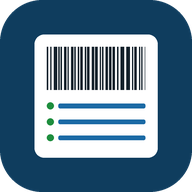
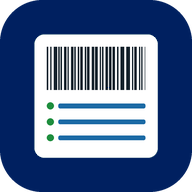
Add files via upload
ver2 logo and user list dropdown

diff --git a/index.html b/index.html
@@ -3,7 +3,7 @@
 <head>
 <meta charset="utf-8">
 <meta name="viewport" content="width=device-width, initial-scale=1, viewport-fit=cover">
-<meta name="theme-color" content="#0f3d5e">
+<meta name="theme-color" content="#ffffff">
 <meta name="mobile-web-app-capable" content="yes">
 <meta name="apple-mobile-web-app-capable" content="yes">
 <title>Scan List Keeper</title>
@@ -13,21 +13,22 @@
 <style>
 :root{
   --bg:#eef2f6; --card:#ffffff; --ink:#14212b; --muted:#5d6b78; --line:#d5dde5;
-  --brand:#0f3d5e; --brand2:#1b6aa5; --ok:#1e8e3e; --okbg:#e3f4e8; --warn:#b26a00; --warnbg:#fff3dc;
+  --brand:#002060; --brand2:#002060; --navy:#002060; --ok:#1e8e3e; --okbg:#e3f4e8; --warn:#b26a00; --warnbg:#fff3dc;
   --bad:#c62828; --badbg:#fde7e7; --chip:#e8eef4;
 }
 @media (prefers-color-scheme: dark){
   :root{ --bg:#0e1419; --card:#18212a; --ink:#e6edf3; --muted:#93a3b2; --line:#2a3642;
-    --brand:#7cc0f0; --brand2:#5aa8e0; --okbg:#173622; --warnbg:#3a2c10; --badbg:#3d1717; --chip:#22303c; }
+    --brand:#8fb3ff; --brand2:#2f5bb7; --okbg:#173622; --warnbg:#3a2c10; --badbg:#3d1717; --chip:#22303c; }
 }
 *{box-sizing:border-box}
 html,body{margin:0;background:var(--bg);color:var(--ink);font:16px/1.4 system-ui,-apple-system,"Segoe UI",Roboto,sans-serif;-webkit-tap-highlight-color:transparent}
 button,input,textarea,select{font:inherit;color:inherit}
-header.top{position:sticky;top:0;z-index:5;background:#0f3d5e;color:#fff;display:flex;align-items:center;gap:12px;padding:10px 16px;padding-top:max(10px,env(safe-area-inset-top))}
-header.top h1{font-size:19px;margin:0;flex:1;white-space:nowrap;overflow:hidden;text-overflow:ellipsis}
-.iconbtn{background:rgba(255,255,255,.12);border:0;color:#fff;border-radius:10px;min-width:44px;height:44px;padding:0 12px;font-size:16px;cursor:pointer}
-.iconbtn:active{background:rgba(255,255,255,.25)}
-.sync{font-size:13px;padding:5px 10px;border-radius:999px;background:rgba(255,255,255,.15);white-space:nowrap;cursor:pointer;border:0;color:#fff}
+header.top{position:sticky;top:0;z-index:5;background:#fff;color:#002060;border-bottom:4px solid #002060;box-shadow:0 2px 6px rgba(0,0,0,.08);display:flex;align-items:center;gap:12px;padding:10px 16px;padding-top:max(10px,env(safe-area-inset-top))}
+header.top .logo{height:38px;width:auto;display:block}
+header.top h1{font-size:19px;color:#002060;margin:0;flex:1;white-space:nowrap;overflow:hidden;text-overflow:ellipsis}
+.iconbtn{background:#e8edf6;border:0;color:#002060;border-radius:10px;min-width:44px;height:44px;padding:0 12px;font-size:16px;cursor:pointer}
+.iconbtn:active{background:#cfd9ec}
+.sync{font-size:13px;padding:5px 10px;border-radius:999px;background:#6b7785;white-space:nowrap;cursor:pointer;border:0;color:#fff}
 .sync.ok{background:#1e8e3e}.sync.pend{background:#b26a00}.sync.off{background:#6b7785}.sync.err{background:#c62828}
 main{max-width:1000px;margin:0 auto;padding:16px}
 .card{background:var(--card);border:1px solid var(--line);border-radius:14px;padding:16px;margin-bottom:16px}
@@ -86,6 +87,7 @@ tr.new td{background:var(--okbg)}
 .toast.show{opacity:1}
 .hint{font-size:13px;color:var(--muted)}
 .hidden{display:none!important}
+.chip.test{background:#b26a00;color:#fff}
 .check{display:flex;align-items:center;gap:10px;margin-top:12px;color:var(--ink);font-size:15px}
 .check input{width:22px;height:22px}
 </style>
@@ -93,6 +95,7 @@ tr.new td{background:var(--okbg)}
 <body>
 <header class="top">
   <button class="iconbtn hidden" id="backBtn" title="Back to lists">&#8592;</button>
+  <img src="icons/mtdata-logo-navy.png" alt="MTData" class="logo">
   <h1 id="topTitle">Scan List Keeper</h1>
   <button class="sync off" id="syncBadge" title="Sync status">Not set up</button>
   <button class="iconbtn" id="settingsBtn" title="Settings">&#9881;</button>
@@ -105,7 +108,8 @@ tr.new td{background:var(--okbg)}
     <h2>Start a new list</h2>
     <div class="row">
       <div><label for="newTitle">Title *</label><input type="text" id="newTitle" placeholder="e.g. WO-12345 Camera boards" autocomplete="off"></div>
-      <div><label for="newUser">User *</label><input type="text" id="newUser" placeholder="Your name" autocomplete="off"></div>
+      <div><label for="newUser">User *</label><select id="newUser" class="userSel"></select>
+        <input type="text" id="newGuest" class="hidden" placeholder="Guest name (optional)" autocomplete="off" style="margin-top:8px"></div>
     </div>
     <label for="newNotes">Notes (optional)</label>
     <input type="text" id="newNotes" placeholder="e.g. Line 2, batch, customer, part no." autocomplete="off">
@@ -194,7 +198,8 @@ tr.new td{background:var(--okbg)}
   <div class="box">
     <h3>Edit list heading</h3>
     <label for="eTitle">Title</label><input type="text" id="eTitle">
-    <label for="eUser">User</label><input type="text" id="eUser">
+    <label for="eUser">User</label><select id="eUser" class="userSel"></select>
+    <input type="text" id="eGuest" class="hidden" placeholder="Guest name (optional)" style="margin-top:8px">
     <label for="eNotes">Notes</label><input type="text" id="eNotes">
     <div class="btns">
       <button class="btn primary" id="eSave">Save</button>
@@ -222,6 +227,18 @@ const $=id=>document.getElementById(id);
 function load(k,def){try{const v=localStorage.getItem(k);return v?JSON.parse(v):def}catch(e){return def}}
 function save(k,v){try{localStorage.setItem(k,JSON.stringify(v));return true}catch(e){toast('Could not save — storage full?');return false}}
 
+const USERS=['Mark (test)','Hen','Bao','Rocky','Dennis','Geraldine','Phung','Kim','Guest'];
+function fillUserSel(sel){sel.innerHTML='<option value="">— Select user —</option>'+USERS.map(u=>`<option>${u}</option>`).join('')}
+// value stored on list: name, or "Guest – <name>"
+function setUser(selId,guestId,val){
+  const sel=$(selId),g=$(guestId);val=val||'';
+  if(USERS.includes(val)&&val!=='Guest'){sel.value=val;g.value='';}
+  else if(val){sel.value='Guest';g.value=val.replace(/^Guest(\s*[–-]\s*)?/,'');}
+  else{sel.value='';g.value='';}
+  g.classList.toggle('hidden',sel.value!=='Guest');
+}
+function getUser(selId,guestId){const v=$(selId).value;if(v!=='Guest')return v;const n=$(guestId).value.trim();return n?'Guest – '+n:'Guest'}
+function isTest(u){return /\(test\)/i.test(u||'')}
 let lists=load(K_LISTS,[]);
 let settings=Object.assign({device:'',apiUrl:'',apiKey:'',dupBlock:true,upper:false,sound:true},load(K_SET,{}));
 let current=null, filter='open', lastAddedIdx=-1;
@@ -276,7 +293,7 @@ function showHome(){
   current=null;
   $('home').classList.remove('hidden');$('scan').classList.add('hidden');$('backBtn').classList.add('hidden');
   $('topTitle').textContent='Scan List Keeper';
-  $('newUser').value=$('newUser').value||load(K_LASTUSER,'');
+  if(!$('newUser').value)setUser('newUser','newGuest',load(K_LASTUSER,''));
   renderLists();
 }
 function renderLists(){
@@ -287,7 +304,7 @@ function renderLists(){
   $('lists').innerHTML=out.length?out.map(l=>`
     <div class="li" data-id="${l.id}">
       <div class="main">
-        <div class="t">${esc(l.title)}${l.status==='closed'?'<span class="chip closed">Finished</span>':''}${l.dirty&&settings.apiUrl?'<span class="chip pend">Not synced</span>':''}</div>
+        <div class="t">${esc(l.title)}${isTest(l.user)?'<span class="chip test">TEST</span>':''}${l.status==='closed'?'<span class="chip closed">Finished</span>':''}${l.dirty&&settings.apiUrl?'<span class="chip pend">Not synced</span>':''}</div>
         <div class="s">${esc(l.user)}${l.notes?' · '+esc(l.notes):''} · updated ${fmtShort(l.updated)}</div>
       </div>
       <div class="count">${l.items.length}</div>
@@ -297,16 +314,16 @@ $('lists').addEventListener('click',e=>{const el=e.target.closest('.li');if(el)o
 document.querySelectorAll('.tab').forEach(t=>t.onclick=()=>{document.querySelectorAll('.tab').forEach(x=>x.classList.toggle('on',x===t));filter=t.dataset.f;renderLists()});
 $('listSearch').oninput=renderLists;
 $('startBtn').onclick=()=>{
-  const title=$('newTitle').value.trim(), user=$('newUser').value.trim(), notes=$('newNotes').value.trim();
+  const title=$('newTitle').value.trim(), user=getUser('newUser','newGuest'), notes=$('newNotes').value.trim();
   if(!title){toast('Enter a title');$('newTitle').focus();return}
-  if(!user){toast('Enter the user name');$('newUser').focus();return}
+  if(!user){toast('Select the user');$('newUser').focus();return}
   const t=nowISO();
   const l={id:uid(),title,user,notes,device:settings.device||'',created:t,updated:t,status:'open',items:[],dirty:true};
   lists.push(l);persist();save(K_LASTUSER,user);
   $('newTitle').value='';$('newNotes').value='';
   queueSync(l.id);openList(l.id);
 };
-['newTitle','newUser','newNotes'].forEach(id=>$(id).addEventListener('keydown',e=>{if(e.key==='Enter')$('startBtn').click()}));
+['newTitle','newGuest','newNotes'].forEach(id=>$(id).addEventListener('keydown',e=>{if(e.key==='Enter')$('startBtn').click()}));
 
 /* ---------- scan screen ---------- */
 function openList(id){
@@ -401,10 +418,10 @@ $('finishBtn').onclick=async()=>{
 };
 
 /* ---------- edit heading ---------- */
-$('editBtn').onclick=()=>{$('eTitle').value=current.title;$('eUser').value=current.user;$('eNotes').value=current.notes||'';openModal('editModal')};
+$('editBtn').onclick=()=>{$('eTitle').value=current.title;setUser('eUser','eGuest',current.user);$('eNotes').value=current.notes||'';openModal('editModal')};
 $('eCancel').onclick=()=>closeModal('editModal');
 $('eSave').onclick=()=>{
-  const t=$('eTitle').value.trim(),u=$('eUser').value.trim();if(!t||!u)return toast('Title and user are required');
+  const t=$('eTitle').value.trim(),u=getUser('eUser','eGuest');if(!t||!u)return toast('Title and user are required');
   current.title=t;current.user=u;current.notes=$('eNotes').value.trim();touch();closeModal('editModal');$('topTitle').textContent=t;renderScan();
 };
 $('eDelete').onclick=async()=>{
@@ -479,6 +496,8 @@ $('restoreFile').onchange=async e=>{
 window.addEventListener('beforeunload',()=>persist());
 document.addEventListener('visibilitychange',()=>{if(document.visibilityState==='hidden')persist();else{lists=load(K_LISTS,lists);if(current){current=lists.find(l=>l.id===current.id)||null;current?renderScan():showHome()}else renderLists()}});
 if('serviceWorker' in navigator&&location.protocol==='https:')navigator.serviceWorker.register('sw.js');
+document.querySelectorAll('.userSel').forEach(fillUserSel);
+[['newUser','newGuest'],['eUser','eGuest']].forEach(([s,g])=>$(s).addEventListener('change',()=>{$(g).classList.toggle('hidden',$(s).value!=='Guest');if($(s).value==='Guest')$(g).focus()}));
 showHome();updateBadge();syncAll();
 </script>
 </body>

diff --git a/manager.html b/manager.html
@@ -3,19 +3,20 @@
 <head>
 <meta charset="utf-8">
 <meta name="viewport" content="width=device-width, initial-scale=1">
-<meta name="theme-color" content="#0f3d5e">
+<meta name="theme-color" content="#ffffff">
 <title>Scan List Keeper — Manager View</title>
 <link rel="manifest" href="manifest.json">
 <link rel="icon" href="icons/icon-192.png">
 <style>
-:root{--bg:#eef2f6;--card:#fff;--ink:#14212b;--muted:#5d6b78;--line:#d5dde5;--brand:#0f3d5e;--brand2:#1b6aa5;--bad:#c62828;--chip:#e8eef4;--sel:#e3effa;--ok:#1e8e3e}
-@media (prefers-color-scheme: dark){:root{--bg:#0e1419;--card:#18212a;--ink:#e6edf3;--muted:#93a3b2;--line:#2a3642;--brand:#7cc0f0;--brand2:#5aa8e0;--chip:#22303c;--sel:#1b3043}}
+:root{--bg:#eef2f6;--card:#fff;--ink:#14212b;--muted:#5d6b78;--line:#d5dde5;--brand:#002060;--brand2:#002060;--bad:#c62828;--chip:#e8eef4;--sel:#e3effa;--ok:#1e8e3e}
+@media (prefers-color-scheme: dark){:root{--bg:#0e1419;--card:#18212a;--ink:#e6edf3;--muted:#93a3b2;--line:#2a3642;--brand:#8fb3ff;--brand2:#2f5bb7;--chip:#22303c;--sel:#1b3043}}
 *{box-sizing:border-box}
 html,body{margin:0;background:var(--bg);color:var(--ink);font:15px/1.4 system-ui,-apple-system,"Segoe UI",Roboto,sans-serif}
 button,input,select{font:inherit;color:inherit}
-header{background:#0f3d5e;color:#fff;padding:12px 16px;display:flex;align-items:center;gap:12px;flex-wrap:wrap}
-header h1{margin:0;font-size:19px;flex:1}
-header a{color:#cfe6f7;font-size:14px}
+header{background:#fff;color:#002060;border-bottom:4px solid #002060;box-shadow:0 2px 6px rgba(0,0,0,.08);padding:12px 16px;display:flex;align-items:center;gap:12px;flex-wrap:wrap}
+header h1{margin:0;font-size:19px;flex:1;color:#002060}
+header .logo{height:38px;width:auto;display:block}
+header a{color:#002060;font-size:14px}
 main{max-width:1300px;margin:0 auto;padding:16px}
 .card{background:var(--card);border:1px solid var(--line);border-radius:14px;padding:14px 16px;margin-bottom:14px}
 .row{display:flex;gap:10px;flex-wrap:wrap;align-items:flex-end}
@@ -41,7 +42,7 @@ tr.l.sel td{background:var(--sel)}
 td.num{text-align:right;font-weight:700}
 td.nowrap{white-space:nowrap}
 .chip{display:inline-block;font-size:12px;padding:2px 8px;border-radius:999px;background:var(--chip)}
-.chip.closed{background:#6b7785;color:#fff}.chip.local{background:#b26a00;color:#fff}
+.chip.closed{background:#6b7785;color:#fff}.chip.test{background:#b26a00;color:#fff}.chip.local{background:#b26a00;color:#fff}
 tr.detail td{background:var(--bg);padding:12px}
 .sns{font-family:ui-monospace,Consolas,monospace;font-size:14px;display:grid;grid-template-columns:repeat(auto-fill,minmax(260px,1fr));gap:2px 16px;max-height:340px;overflow:auto;margin-top:8px}
 .sns span{color:var(--muted)}
@@ -57,8 +58,9 @@ details summary{cursor:pointer;font-weight:600}
 </head>
 <body>
 <header>
+  <img src="icons/mtdata-logo-navy.png" alt="MTData" class="logo">
   <h1>Manager View — all scanned lists</h1>
-  <span class="status" id="loadStatus" style="color:#cfe6f7"></span>
+  <span class="status" id="loadStatus"></span>
   <a href="index.html">Scanner app &#8599;</a>
 </header>
 <main>
@@ -92,6 +94,7 @@ details summary{cursor:pointer;font-weight:600}
     <div class="btns" style="margin-top:12px;align-items:center">
       <button class="btn primary" id="refresh">&#8635; Refresh</button>
       <label style="display:flex;gap:6px;align-items:center;font-size:14px"><input type="checkbox" id="auto"> Auto-refresh 30s</label>
+      <label style="display:flex;gap:6px;align-items:center;font-size:14px"><input type="checkbox" id="hideTest"> Hide test lists</label>
       <span style="flex:1"></span>
       <button class="btn" id="copyAll">Copy for Excel</button>
       <button class="btn" id="copySn">Copy serials only</button>
@@ -119,7 +122,7 @@ const $=id=>document.getElementById(id);
 const K='slk_manager';
 function load(k,d){try{const v=localStorage.getItem(k);return v?JSON.parse(v):d}catch(e){return d}}
 function save(k,v){try{localStorage.setItem(k,JSON.stringify(v))}catch(e){}}
-let cfg=Object.assign({api:'',key:'',incLocal:false},load(K,{}));
+let cfg=Object.assign({api:'',key:'',incLocal:false,hideTest:false},load(K,{}));
 // prefill URL from the scanner app on this device if present
 if(!cfg.api){const s=load('slk_settings',{});if(s.apiUrl)cfg.api=s.apiUrl}
 let all=[],selected=new Set(),open=new Set(),sortKey='updated',sortDir=-1,autoT=null;
@@ -129,7 +132,7 @@ function fmtXL(iso){if(!iso)return'';const d=new Date(iso);if(isNaN(d))return is
 function fmtShort(iso){if(!iso)return'';const d=new Date(iso);return d.toLocaleDateString('en-AU',{day:'2-digit',month:'short',year:'2-digit'})+' '+pad(d.getHours())+':'+pad(d.getMinutes())}
 function esc(s){return String(s??'').replace(/[&<>"']/g,c=>({'&':'&amp;','<':'&lt;','>':'&gt;','"':'&quot;',"'":'&#39;'}[c]))}
 let tt;function toast(m){const t=$('toast');t.textContent=m;t.classList.add('show');clearTimeout(tt);tt=setTimeout(()=>t.classList.remove('show'),2400)}
-function setStatus(m,err){const s=$('loadStatus');s.textContent=m;s.style.color=err?'#ffb4b4':'#cfe6f7'}
+function setStatus(m,err){const s=$('loadStatus');s.textContent=m;s.style.color=err?'#c62828':'#5d6b78'}
 
 async function fetchLists(){
   let remote=[],err='';
@@ -163,6 +166,7 @@ function fillUsers(){
 function filtered(){
   const q=$('q').value.trim().toLowerCase(),u=$('fUser').value,st=$('fStatus').value,from=$('fFrom').value,to=$('fTo').value;
   return all.filter(l=>{
+    if(cfg.hideTest&&/\(test\)/i.test(l.user||''))return false;
     if(u&&String(l.user)!==u)return false;
     if(st&&(st==='closed'?l.status!=='closed':l.status==='closed'))return false;
     const d=fmtXL(l.updated).slice(0,10);
@@ -188,7 +192,7 @@ function render(){
     const o=open.has(l.id);
     let h=`<tr class="l ${selected.has(l.id)?'sel':''}" data-id="${esc(l.id)}">
       <td><input type="checkbox" class="pick" ${selected.has(l.id)?'checked':''}></td>
-      <td><b>${hl(l.title,q)}</b></td><td>${hl(l.user,q)}</td><td class="muted">${hl(l.notes||'',q)}</td>
+      <td><b>${hl(l.title,q)}</b></td><td>${hl(l.user,q)}${/\(test\)/i.test(l.user||'')?' <span class="chip test">TEST</span>':''}</td><td class="muted">${hl(l.notes||'',q)}</td>
       <td class="muted">${esc(l.device||'')}${l.src==='local'?' <span class="chip local">this device</span>':''}</td>
       <td class="nowrap">${fmtShort(l.created)}</td><td class="nowrap">${fmtShort(l.updated)}</td>
       <td>${l.status==='closed'?'<span class="chip closed">Finished</span>':'<span class="chip">Open</span>'}</td>
@@ -250,6 +254,7 @@ async function delList(l){
   }catch(e){toast('Delete failed: '+e.message)}
 }
 
+$('hideTest').checked=cfg.hideTest;$('hideTest').onchange=e=>{cfg.hideTest=e.target.checked;save(K,cfg);render()};
 $('api').value=cfg.api;$('key').value=cfg.key;$('incLocal').checked=cfg.incLocal;
 $('saveConn').onclick=()=>{cfg.api=$('api').value.trim();cfg.key=$('key').value.trim();cfg.incLocal=$('incLocal').checked;save(K,cfg);$('setup').open=false;fetchLists()};
 $('incLocal').onchange=()=>{cfg.incLocal=$('incLocal').checked;save(K,cfg);fetchLists()};

diff --git a/sw.js b/sw.js
@@ -1,7 +1,8 @@
 // Bump VERSION whenever you change any file so tablets pick up the update.
-const VERSION = 'slk-v1';
+const VERSION = 'slk-v2';
 const FILES = ['./', './index.html', './manager.html', './manifest.json',
-  './icons/icon-192.png', './icons/icon-512.png', './icons/icon-maskable-512.png'];
+  './icons/icon-192.png', './icons/icon-512.png', './icons/icon-maskable-512.png',
+  './icons/mtdata-logo-navy.png'];
 
 self.addEventListener('install', e => {
   e.waitUntil(caches.open(VERSION).then(c => c.addAll(FILES)).then(() => self.skipWaiting()));

diff --git a/README.md b/README.md
@@ -53,6 +53,13 @@ Open `manager.html` on your PC → **Connection** → paste the `/exec` URL + `M
 - **Download CSV** keeps long numeric serials and leading zeros intact.
 - You can also just open the Google Sheet directly, or *File → Download → .xlsx*.
 
+## Users
+
+The **User** dropdown lists: Mark (test), Hen, Bao, Rocky, Dennis, Geraldine, Phung, Kim, Guest.
+- **Guest** shows a name box → saved as `Guest – <name>` (or just `Guest`).
+- **Mark (test)** lists get an orange **TEST** tag; tick **Hide test lists** in Manager View to keep them out of exports.
+- To change the names, edit the `USERS` line near the top of the script in `index.html`, then bump `VERSION` in `sw.js`.
+
 ## Scanning behaviour
 
 - Scanner must send **Enter** (or Tab) after each code — the default for most scanners.
